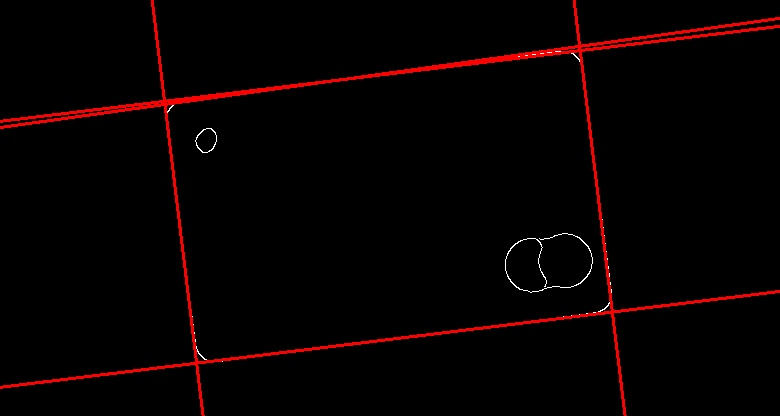
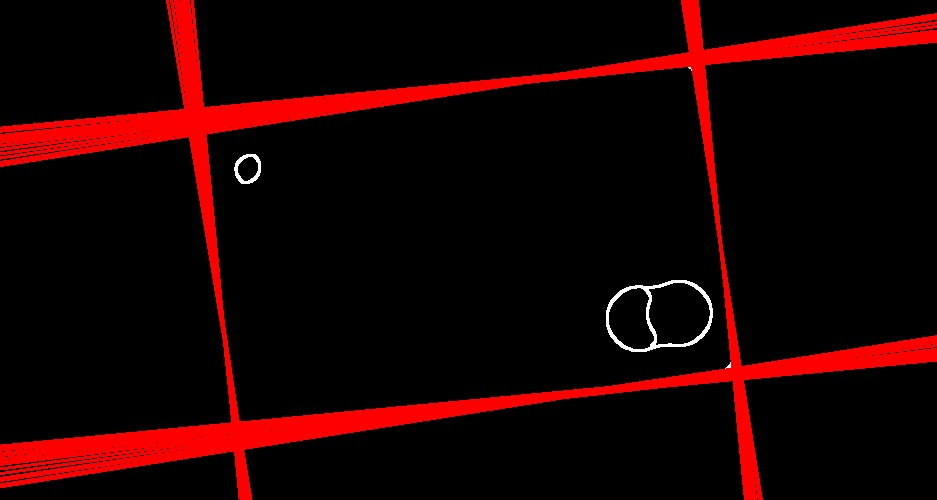
add contour detect

Changed region(s): [[0.0, 0.0, 1.0, 0.75], [0.0, 0.5, 1.0, 1.0]]

diff --git a/CreditCardDetection.py b/CreditCardDetection.py
@@ -6,6 +6,7 @@
 import cv2 
 import argparse
 import numpy as np
+from ContourDetect import ContourDetector
 
 '''
 Canny Edge Detection
@@ -15,17 +16,23 @@ Canny Edge Detection
 window_name = 'Edge Map'
 title = 'Threshold:'
 
-# Show canny detection with different low threshold values
-def CannyDetector(threshold):
+def CannyDetector(threshold=40):
+	'''
+	Canny detection by threshold values
+	
+	# Parameter
+	threshold: minimum threshold for canny detector, maximum threshold is multiply by 3
+	'''
 
 	# Smooth image by gaussian filter
 	img_blur = cv2.GaussianBlur(src, (5, 5), 0)
 
 	# Clean text by median filter
-	img_blur = cv2.medianBlur(img_blur, 17)
+	img_blur = cv2.medianBlur(img_blur, 23)
 
 	# Detect edges using canny detector
-	edge_map = cv2.Canny(img_blur, threshold, threshold*3, 3)
+	edge_map = cv2.Canny(img_blur, threshold, threshold*3, apertureSize = 3)
+
 	cv2.imshow(window_name, edge_map)
 
 	return edge_map
@@ -42,7 +49,11 @@ if src is None:
     print('Couldn\'t open', args.input)
     exit(0)
 
+# Scale image by fixed height 500px 
+ratio = 500/src.shape[0]
+src = cv2.resize(src, (int(ratio*src.shape[1]), 500))
 
+'''
 # Create window for trackerbar
 print('Choose a proper threshold and press any key ...')
 cv2.namedWindow(window_name)
@@ -53,36 +64,25 @@ cv2.waitKey()
 # Save the threshold we choose before destroy
 chosen_threshold = cv2.getTrackbarPos(title, window_name)
 cv2.destroyAllWindows()
+'''
 
 # Generate edge_map by chosen threshold
-edge_map = CannyDetector(chosen_threshold)
+edge_map = CannyDetector()
+
+# Make outline more obvious 
+edge_map = cv2.dilate(edge_map, None)
+
+cv2.imshow('Edge Map', edge_map)
+cv2.waitKey()
+cv2.destroyAllWindows()
 
 # Save edge map image in './images' folder
 cv2.imwrite('./images/test{}_edge_map.jpg'.format(args.input[-5]), edge_map)
 print('./images/test{}_edge_map.jpg saved!'.format(args.input[-5]))
 
-'''
-Hough Line Transform
-'''
+img, contour = ContourDetector(edge_map, src)
 
-lines = cv2.HoughLines(edge_map, 1, (np.pi/180), 100)
-img = cv2.cvtColor(edge_map,cv2.COLOR_GRAY2RGB)
-
-# Draw red lines on image using theta and rho
-for rho,theta in lines[:,0,:]:
-	a = np.cos(theta)
-	b = np.sin(theta)
-	x0 = a*rho
-	y0 = b*rho
-	x1 = int(x0 + 1000*(-b))
-	y1 = int(y0 + 1000*(a))
-	x2 = int(x0 - 1000*(-b))
-	y2 = int(y0 - 1000*(a))
-	cv2.line(img, (x1, y1), (x2, y2), (0,0,255), 2)
-
-cv2.imshow(window_name, img)
+cv2.imshow('Contour', img)
 cv2.waitKey()
+cv2.destroyAllWindows()
 
-# Save hough line image 
-cv2.imwrite('./images/test{}_hough_line.jpg'.format(args.input[-5]), img)
-print('./images/test{}_hough_line.jpg saved!'.format(args.input[-5]))

diff --git a/ContourDetect.py b/ContourDetect.py
@@ -1,0 +1,56 @@
+'''
+@File ContourDetector.py
+@Brief Detec the shape of credit card
+'''
+
+import cv2
+import argparse
+import numpy as np
+
+def ContourDetector(edge_map, background):
+	'''
+	Detect largest contour on edge map
+
+	# Parameter
+	edge_map: edge map by canny detection
+
+	# Return
+	img: edge_map with green approximate contour
+	approx: approximation of contour provided by findContours
+	'''
+
+	# Find the largest area contour on edge map
+	image, contours, hierarchy=cv2.findContours(edge_map.copy(), cv2.RETR_TREE ,cv2.CHAIN_APPROX_SIMPLE)
+	print(len(contours))
+	contours = sorted(contours, key = cv2.contourArea, reverse = True)[0]
+
+	# Restrict the approximation by contour's length
+	length = cv2.arcLength(contours, True)
+	approx = cv2.approxPolyDP(contours, 0.005*length, True)
+
+	# Draw contour on background image
+	if len(background.shape) == 2:
+		background = cv2.cvtColor(background, cv2.COLOR_GRAY2RGB)
+	cv2.drawContours(background, [approx], -1, (0, 255, 0), 2)
+	
+	cv2.imshow('Contour', background)
+	return background, approx
+
+if __name__=='__main__':
+
+	# Take arguments from command line 
+	parser = argparse.ArgumentParser()
+	parser.add_argument('-input', default='./images/test1_edge_map.jpg')
+	args = parser.parse_args()
+
+	# Read input image
+	edge_map = cv2.imread(args.input)
+	edge_map = cv2.cvtColor(edge_map,cv2.COLOR_RGB2GRAY)
+
+	# Edge map is a binary image
+	_,edge_map = cv2.threshold(edge_map, 127, 255, cv2.THRESH_BINARY)
+
+	image = ContourDetector(edge_map, edge_map)
+
+	cv2.waitKey(0)
+	cv2.destroyAllWindows()

diff --git a/FeatureExtract.py b/FeatureExtract.py
@@ -50,7 +50,7 @@ if __name__=='__main__':
 
 	# Take arguments from command line 
 	parser = argparse.ArgumentParser()
-	parser.add_argument('-input', default='./images/test1_edge_map.jpg')
+	parser.add_argument('-input', default='./images/test3_edge_map.jpg')
 	args = parser.parse_args()
 
 	# Read input image
@@ -58,6 +58,9 @@ if __name__=='__main__':
 	if edge_map is None:
 	    print('Couldn\'t open', args.input)
 	    exit(0)
+
+	# Edge map is a binary image
+	_, edge_map = cv2.threshold(edge_map, 127, 255, cv2.THRESH_BINARY)
 
 	# Parameter for CornerHarris tracker bar
 	window_name = 'Corner Detector'
